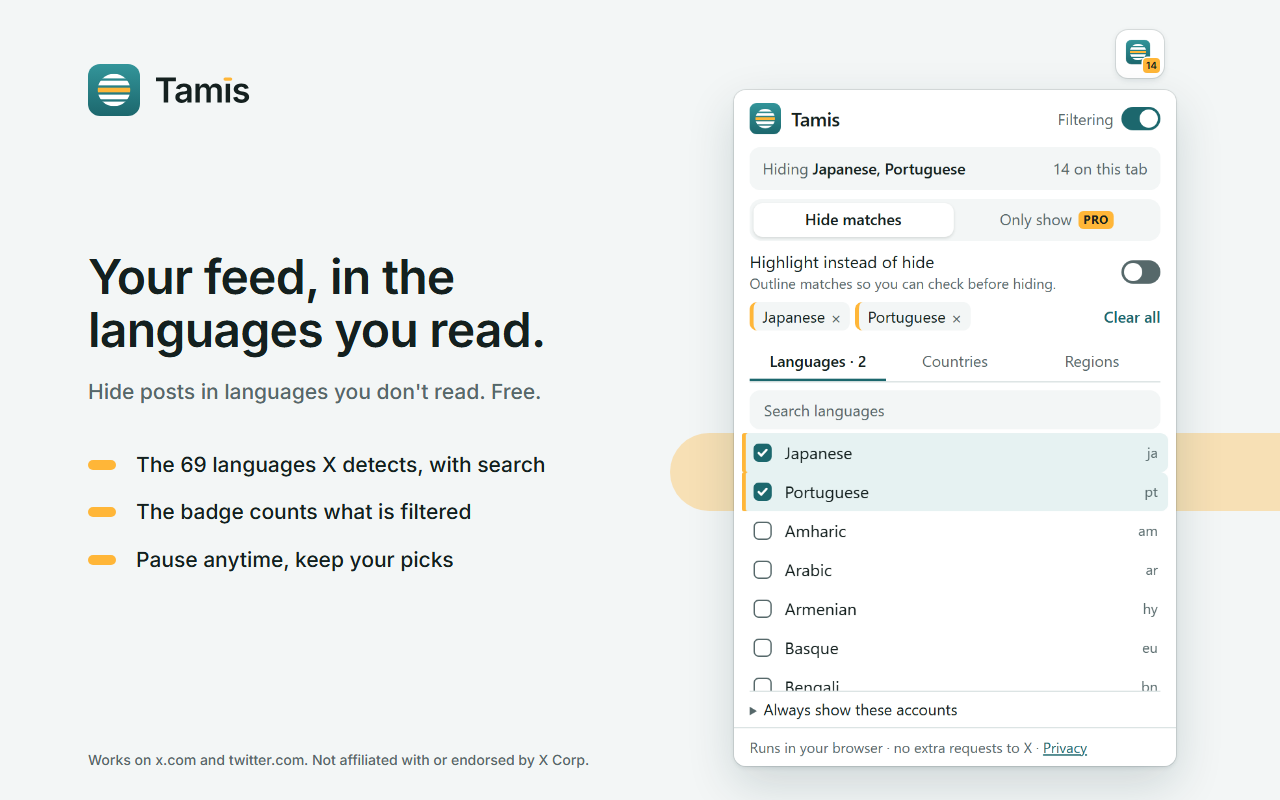
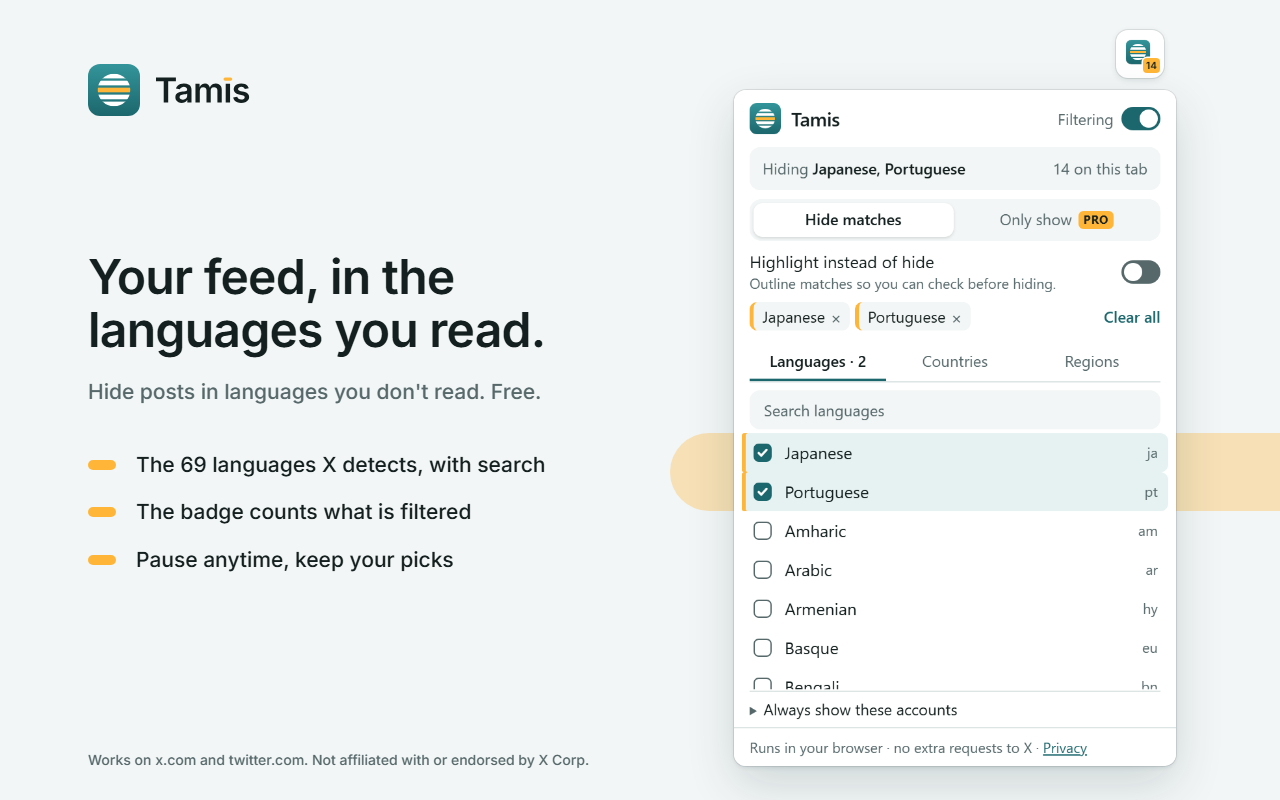
feat(store): make all five store screenshots in one layout
Screenshot 5 came from render-brand.mjs (compositions.mjs), whose
PRIVACY_LINES still say "No labels added to people". The screenshot guide
told the owner to run render-brand.mjs for screenshot 2, and that run
rewrote the committed screenshot 5 with the false line. Screenshots 2 and
5 also used two layouts that differ from 1, 3 and 4.

store-screenshots.mjs now makes all five in store/screenshots/, in one
layout: lockup at the top left, headline, sub-line and points, fine print
at the bottom left.
- Screenshot 5, "Private by design.", shows the real popup as the brand
  spec asks: Highlight on, the Filtering switch with its focus ring
  (checked before capture), and the band behind the "Runs in your browser
  · no extra requests to X" footer. Its points include "No flags on
  anyone's name" and "Pause anytime". The old store/ copy is removed.
- Screenshot 2 takes the owner's blurred capture from
  store/screenshots/highlight-capture.png, at most 1x, and is skipped
  until that file exists. The new file name keeps render-brand.mjs, which
  still composes any capture-N.png, from making a second copy.
- Text on the canvas and in the popup capture is drawn on transparent
  layers, so Chrome uses greyscale antialiasing instead of coloured
  subpixel fringes. The layout of 1, 3 and 4 does not move.

The guide, listing, README, brand README and changelog point at the new
files and no longer send anyone to render-brand.mjs for a screenshot.

diff --git a/store/screenshots/README.md b/store/screenshots/README.md
@@ -2,56 +2,73 @@
 
 Five 1280x800 PNGs with no alpha, full bleed and square corners. The same
 five go to the Chrome Web Store, Firefox Add-ons and Edge Add-ons, in this
-order:
+order. `node scripts/store-screenshots.mjs` makes all five, in one layout;
+screenshot 2 also needs your capture of x.com.
 
-| # | File | Made by |
-|---|------|---------|
-| 1 | `store/screenshots/screenshot-1-languages-1280x800.png` | `node scripts/store-screenshots.mjs` |
-| 2 | `store/screenshot-2-highlight-1280x800.png` | You, on x.com: `capture-2.png`, then `node scripts/render-brand.mjs` |
-| 3 | `store/screenshots/screenshot-3-focus-1280x800.png` | `node scripts/store-screenshots.mjs` |
-| 4 | `store/screenshots/screenshot-4-regions-1280x800.png` | `node scripts/store-screenshots.mjs` |
-| 5 | `store/screenshot-5-privacy-1280x800.png` | `node scripts/render-brand.mjs` |
+| # | File | Right-hand side |
+|---|------|-----------------|
+| 1 | `store/screenshots/screenshot-1-languages-1280x800.png` | Popup, generated |
+| 2 | `store/screenshots/screenshot-2-highlight-1280x800.png` | Your capture, `store/screenshots/highlight-capture.png` |
+| 3 | `store/screenshots/screenshot-3-focus-1280x800.png` | Popup, generated |
+| 4 | `store/screenshots/screenshot-4-regions-1280x800.png` | Popup, generated |
+| 5 | `store/screenshots/screenshot-5-privacy-1280x800.png` | Popup, generated |
 
-Remove the old 0.1.x screenshot from every store and never publish
-`release/store-screenshot-1280x800.png`. Examples stay neutral: two
+`node scripts/render-brand.mjs` makes the icons and promo art, not these
+screenshots. Remove the old 0.1.x screenshot from every store and never
+publish `release/store-screenshot-1280x800.png`. Examples stay neutral: two
 languages, one small country with its language, or a whole region. Never
 demo hiding a single country.
 
-## Screenshots 1, 3 and 4: generated
+## The layout
 
-`node scripts/store-screenshots.mjs` builds the production popup
-(`node scripts/build.mjs --prod`), loads `dist/popup.html` in headless
-Chrome with a stand-in for the extension APIs, captures it at 2x and places
-it on the brand canvas: the Tamis mark and wordmark, the headline (Inter
-600) and sub-line, three short points, the popup under its toolbar button
-with the marigold badge, and a band in the mark's kept-row colour behind
-the ticked rows. The fine print reads "Works on x.com and twitter.com. Not
-affiliated with or endorsed by X Corp."
+Every shot has the Tamis mark and wordmark at the top left, the headline
+(Inter 600) with its sub-line and short points on the left, and fine print
+at the bottom left. On the right, shots 1, 3, 4 and 5 show the popup under
+its toolbar button with the marigold badge, with a band in the mark's
+kept-row colour running behind it; shot 2 shows your capture. The fine print
+reads "Works on x.com and twitter.com. Not affiliated with or endorsed by X
+Corp.", or on shot 2 "Accounts blurred for privacy. Not affiliated with or
+endorsed by X Corp."
 
-Nothing on these three comes from x.com: no feed, no accounts, no X logo, so
-nothing needs blurring. The count on the status line and the badge is the
-number the stand-in tab reports; everything else is the popup exactly as
-it ships.
+## Screenshots 1, 3, 4 and 5: generated
 
-| # | Headline | Popup state |
-|---|----------|-------------|
-| 1 | Your feed, in the languages you read. | Light. Hide matches, Languages tab, Japanese and Portuguese ticked. "Hiding Japanese, Portuguese · 14 on this tab", badge 14. |
-| 3 | Focus mode: only the places you pick. | Light. Only show with the PRO pill and "Trial · 7 days left". Countries tab, Norway ticked; the tray also holds Norwegian. "Showing only Norway, Norwegian · 38 set aside". |
-| 4 | One tick covers a whole region. | Dark. Only show (bought), Regions tab, Europe ticked. "Showing only Europe · 23 set aside". |
+The script builds the production popup (`node scripts/build.mjs --prod`),
+loads `dist/popup.html` in headless Chrome with a stand-in for the extension
+APIs, and captures it at 2x. Nothing on these four comes from x.com: no
+feed, no accounts, no X logo, so nothing needs blurring. The count on the
+status line and the badge is the number the stand-in tab reports; everything
+else is the popup exactly as it ships.
 
-Run the script again after any change to the popup, and look at the three
-PNGs before you commit them. The script needs Chrome (set `CHROME_PATH` if
-it is not in a usual place) and network access to Google Fonts for Inter.
-Before it captures, it checks the popup's status text, count and trial chip,
-and that neither the Focus mode offer nor the development-only Test unlock
-is showing. If a popup change makes that check fail, update `SHOTS` in the
-script and look at the result again.
+| # | Headline | Popup state | Band behind |
+|---|----------|-------------|-------------|
+| 1 | Your feed, in the languages you read. | Light. Hide matches, Languages tab, Japanese and Portuguese ticked. "Hiding Japanese, Portuguese · 14 on this tab", badge 14. | Ticked rows |
+| 3 | Focus mode: only the places you pick. | Light. Only show with the PRO pill and "Trial · 7 days left". Countries tab, Norway ticked; the tray also holds Norwegian. "Showing only Norway, Norwegian · 38 set aside". | Ticked rows |
+| 4 | One tick covers a whole region. | Dark. Only show (bought), Regions tab, Europe ticked. "Showing only Europe · 23 set aside". | Ticked rows |
+| 5 | Private by design. | Light. Hide matches with "Highlight instead of hide" on, Languages tab, Japanese and Portuguese ticked. "Highlighting matches for Japanese, Portuguese · 14 on this tab". The Filtering switch shows its keyboard focus ring. | The footer, "Runs in your browser · no extra requests to X" |
+
+Screenshot 5's points are "Runs in your browser", "No extra requests to X",
+"No Tamis account, no analytics", "No flags on anyone's name" and "Pause
+anytime". They must stay true of the build. Never write "No labels added to
+people": Highlight mode shows a note inside matched posts.
+
+Run the script again after any change to the popup, and look at the PNGs
+before you commit them. The script needs Chrome (set `CHROME_PATH` if it is
+not in a usual place) and network access to Google Fonts for Inter. Before
+it captures, it checks the popup's status text, count and trial chip, that
+neither the Focus mode offer nor the development-only Test unlock is
+showing, and on shot 5 that the Filtering switch shows its focus ring. If a
+popup change makes that check fail, update `SHOTS` in the script and look at
+the result again. Two runs with the same Chrome give the same bytes, but
+another Chrome version or machine can move a few pixels of text, so commit
+new PNGs when what they show has changed.
 
 ## Screenshot 2: capture it on x.com
 
 "Highlight first. Hide when you're sure." This one has to show Highlight
 mode on a real feed, so it is a capture from your own browser. Sub-line: "See
-exactly what matched, and why. Free."
+exactly what matched, and why. Free." Points: "An outline and a note on
+each match", "“Always show @handle” in one tap" and "Only you see the
+notes".
 
 ### What the build draws on a matched post
 
@@ -90,32 +107,21 @@ only, with no note.
    same N.
 7. Capture with Snipping Tool (Win+Shift+S, rectangle). Crop to the
    toolbar, the centre feed column and the popup. Leave out the tab-strip
-   favicon and X's left navigation: both show the X logo.
+   favicon and X's left navigation: both show the X logo. The script shows
+   the capture at most at 1x, fitted into a 600x720 area, so a crop of about
+   1200x1440 px fills it; a wider crop is shown smaller. Crop as tightly as
+   the posts and the popup allow.
 8. In Photopea or GIMP, blur (Gaussian, about 12 px at 2x) every avatar,
    display name, @handle and photo that shows people, including the
    @handle inside each "Always show @handle" button. Also blur the post
    text of private individuals; posts from organisations may stay legible.
    Never edit post text, and never paste the popup onto a made-up feed.
-9. Save the blurred crop as `store/screenshots/capture-2.png`, still at 2x.
-10. Run `node scripts/render-brand.mjs`. It writes
-    `store/screenshot-2-highlight-1280x800.png`: the headline and sub-line
-    on the left, your capture on the right (scaled to fit about 760x700),
-    and the fine print "Accounts blurred for privacy · Not affiliated with
-    X Corp." Look at the result.
-
-Make no `capture-1.png`, `capture-3.png` or `capture-4.png`:
-`render-brand.mjs` would compose those too, into `store/`, next to the
-generated screenshots 1, 3 and 4.
-
-## Screenshot 5: privacy
-
-"Private by design." It is rendered by `node scripts/render-brand.mjs` from
-`privacyScreenshot` and `PRIVACY_LINES` in `scripts/brand/compositions.mjs`,
-with no feed content. Before uploading, check that its lines are true of
-the build: "Runs in your browser", "No extra requests to X", "No Tamis
-account, no analytics", "No flags on anyone's name" and "Pause anytime".
-It must not say "No labels added to people": Highlight mode shows the note
-above inside matched posts.
+9. Save the blurred crop as `store/screenshots/highlight-capture.png`,
+   still at 2x.
+10. Run `node scripts/store-screenshots.mjs`. It prints the scale your
+    capture is shown at and writes
+    `store/screenshots/screenshot-2-highlight-1280x800.png`. Look at it
+    next to screenshots 1, 3, 4 and 5.
 
 ## Marquee
 

diff --git a/store/listing.md b/store/listing.md
@@ -241,17 +241,18 @@ twitter filter
 
 ## Screenshots
 
-The same five 1280x800 images go to all three stores, in this order. Four
-are generated; screenshot 2 is captured by hand on x.com. Make sure all five
+The same five 1280x800 images go to all three stores, in this order. All
+five are made by `node scripts/store-screenshots.mjs` in one layout;
+screenshot 2 also needs the owner's capture of x.com. Make sure all five
 files exist and are current before editing any listing.
 
-| # | File | Made by |
-|---|------|---------|
-| 1 | `store/screenshots/screenshot-1-languages-1280x800.png` | `node scripts/store-screenshots.mjs` |
-| 2 | `store/screenshot-2-highlight-1280x800.png` | Owner capture, then `node scripts/render-brand.mjs` |
-| 3 | `store/screenshots/screenshot-3-focus-1280x800.png` | `node scripts/store-screenshots.mjs` |
-| 4 | `store/screenshots/screenshot-4-regions-1280x800.png` | `node scripts/store-screenshots.mjs` |
-| 5 | `store/screenshot-5-privacy-1280x800.png` | `node scripts/render-brand.mjs` |
+| # | File | Right-hand side |
+|---|------|-----------------|
+| 1 | `store/screenshots/screenshot-1-languages-1280x800.png` | Popup, generated |
+| 2 | `store/screenshots/screenshot-2-highlight-1280x800.png` | Owner capture, `store/screenshots/highlight-capture.png` |
+| 3 | `store/screenshots/screenshot-3-focus-1280x800.png` | Popup, generated |
+| 4 | `store/screenshots/screenshot-4-regions-1280x800.png` | Popup, generated |
+| 5 | `store/screenshots/screenshot-5-privacy-1280x800.png` | Popup, generated |
 
 How to capture screenshot 2, and what each shot shows, is in
 `store/screenshots/README.md`.
@@ -268,7 +269,6 @@ How to capture screenshot 2, and what each shot shows, is in
 | `store/marquee-1400x560.png` | 1400x560 | CWS marquee, Edge large tile |
 | `store/github-social-1280x640.png` | 1280x640 | GitHub repository social preview |
 | `store/lockup.png`, `store/lockup-dark.png` | 1280 wide | README, press |
-| `store/screenshot-5-privacy-1280x800.png` | 1280x800 | Screenshot 5 in all stores |
 
 All are generated by `node scripts/render-brand.mjs` from `brand/`. The
 screenshots are listed under "Screenshots" above.

diff --git a/CHANGELOG.md b/CHANGELOG.md
@@ -14,10 +14,10 @@ All notable changes to Tamis (formerly X Country Block). Versions match
   marigold row you keep. Hand-pixelled 16 and 32 px toolbar icons; the
   128 px icon has the 16 px transparent padding the Chrome Web Store asks
   for.
-- New brand masters in `brand/`, store art and screenshot 5 in `store/`,
-  all regenerated by `node scripts/render-brand.mjs`. Store screenshots 1,
-  3 and 4 are rendered from the production popup by
-  `node scripts/store-screenshots.mjs`; screenshot 2 is captured on x.com
+- New brand masters in `brand/` and store art in `store/`, all regenerated
+  by `node scripts/render-brand.mjs`. The five store screenshots share one
+  layout and come from `node scripts/store-screenshots.mjs`: 1, 3, 4 and 5
+  from the production popup, 2 from a capture of x.com
   (`store/screenshots/README.md`).
 - Privacy policy rewritten for Tamis, with a full disclosure of the local
   settings, the local cache of public profile data and Stripe payments.

diff --git a/README.md b/README.md
@@ -114,12 +114,13 @@ tests and builds.
 (`store/listing.md`). `node scripts/render-brand.mjs` regenerates
 `brand/`, `icons/` and `store/` images with headless Chrome; see
 [brand/README.md](brand/README.md). `node scripts/store-screenshots.mjs`
-renders store screenshots 1, 3 and 4 from the production popup.
+renders the five store screenshots into `store/screenshots/`: 1, 3, 4 and
+5 from the production popup, 2 from your capture of x.com.
 
-Before updating the store listings, re-run
-`node scripts/store-screenshots.mjs` and capture screenshot 2 on x.com as
-described in [store/screenshots/README.md](store/screenshots/README.md).
-All five screenshots listed in `store/listing.md` must exist first.
+Before updating the store listings, capture screenshot 2 on x.com and run
+`node scripts/store-screenshots.mjs`, as described in
+[store/screenshots/README.md](store/screenshots/README.md). All five
+screenshots listed in `store/listing.md` must exist first.
 
 ## Layout
 

diff --git a/brand/README.md b/brand/README.md
@@ -19,10 +19,11 @@ usual place) and network access to Google Fonts for Inter. Pass
 `--check sheet.png` to also get the 16/32 px icon on light and dark
 toolbars, with and without a badge.
 
-Store screenshots 1, 3 and 4 (`store/screenshots/*.png`) come from
+The five store screenshots (`store/screenshots/*.png`) come from
 `node scripts/store-screenshots.mjs`, which captures the production popup
-and places it on the same canvas, palette, mark and wordmark. It has the
-same needs. See `store/screenshots/README.md`.
+(or, for screenshot 2, takes your capture of x.com) and places it on the
+same canvas, palette, mark and wordmark. It has the same needs. See
+`store/screenshots/README.md`.
 
 Sizes: 16 and 32 come from `icon-16.svg`. 48, 64, 96 and 512 use the master
 proportions, fitted to whole pixels per size. `icons/icon128.png` and
